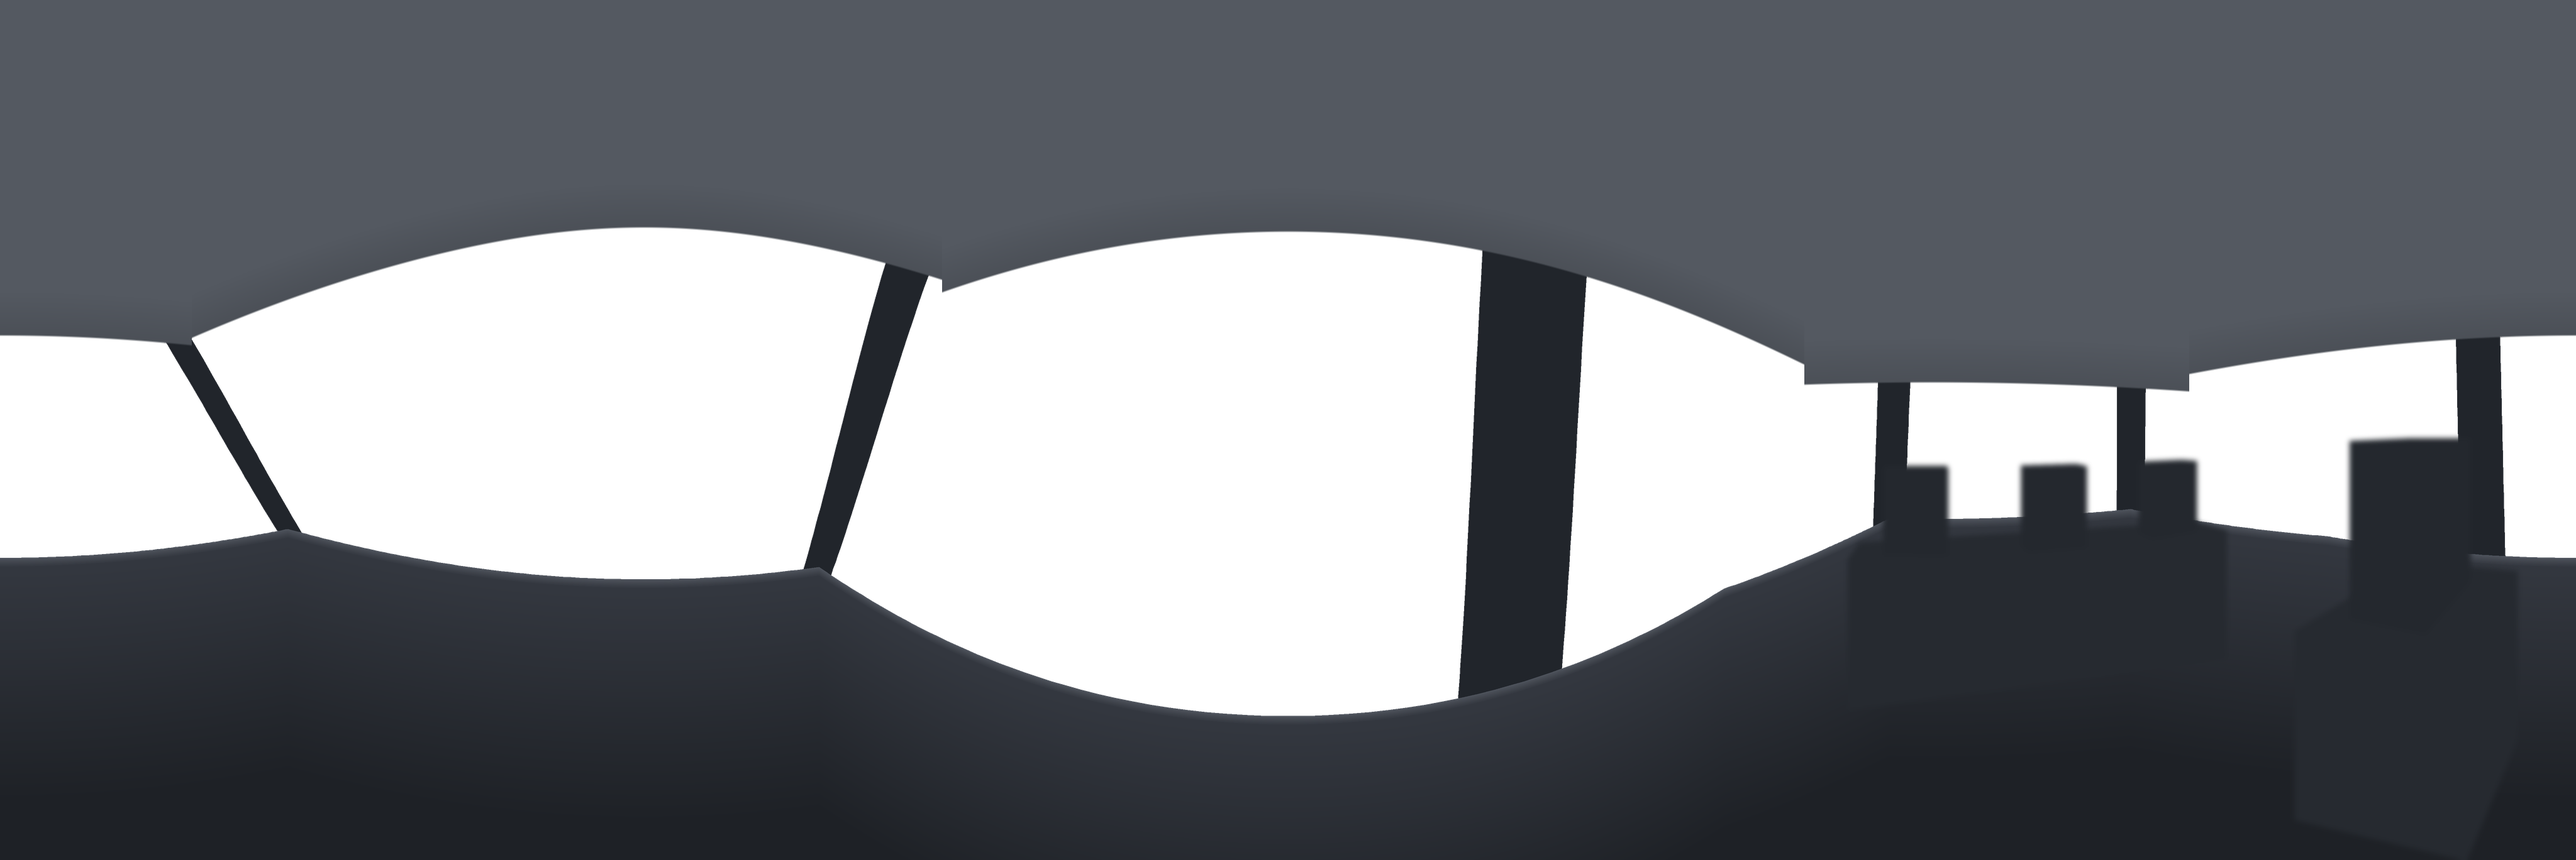
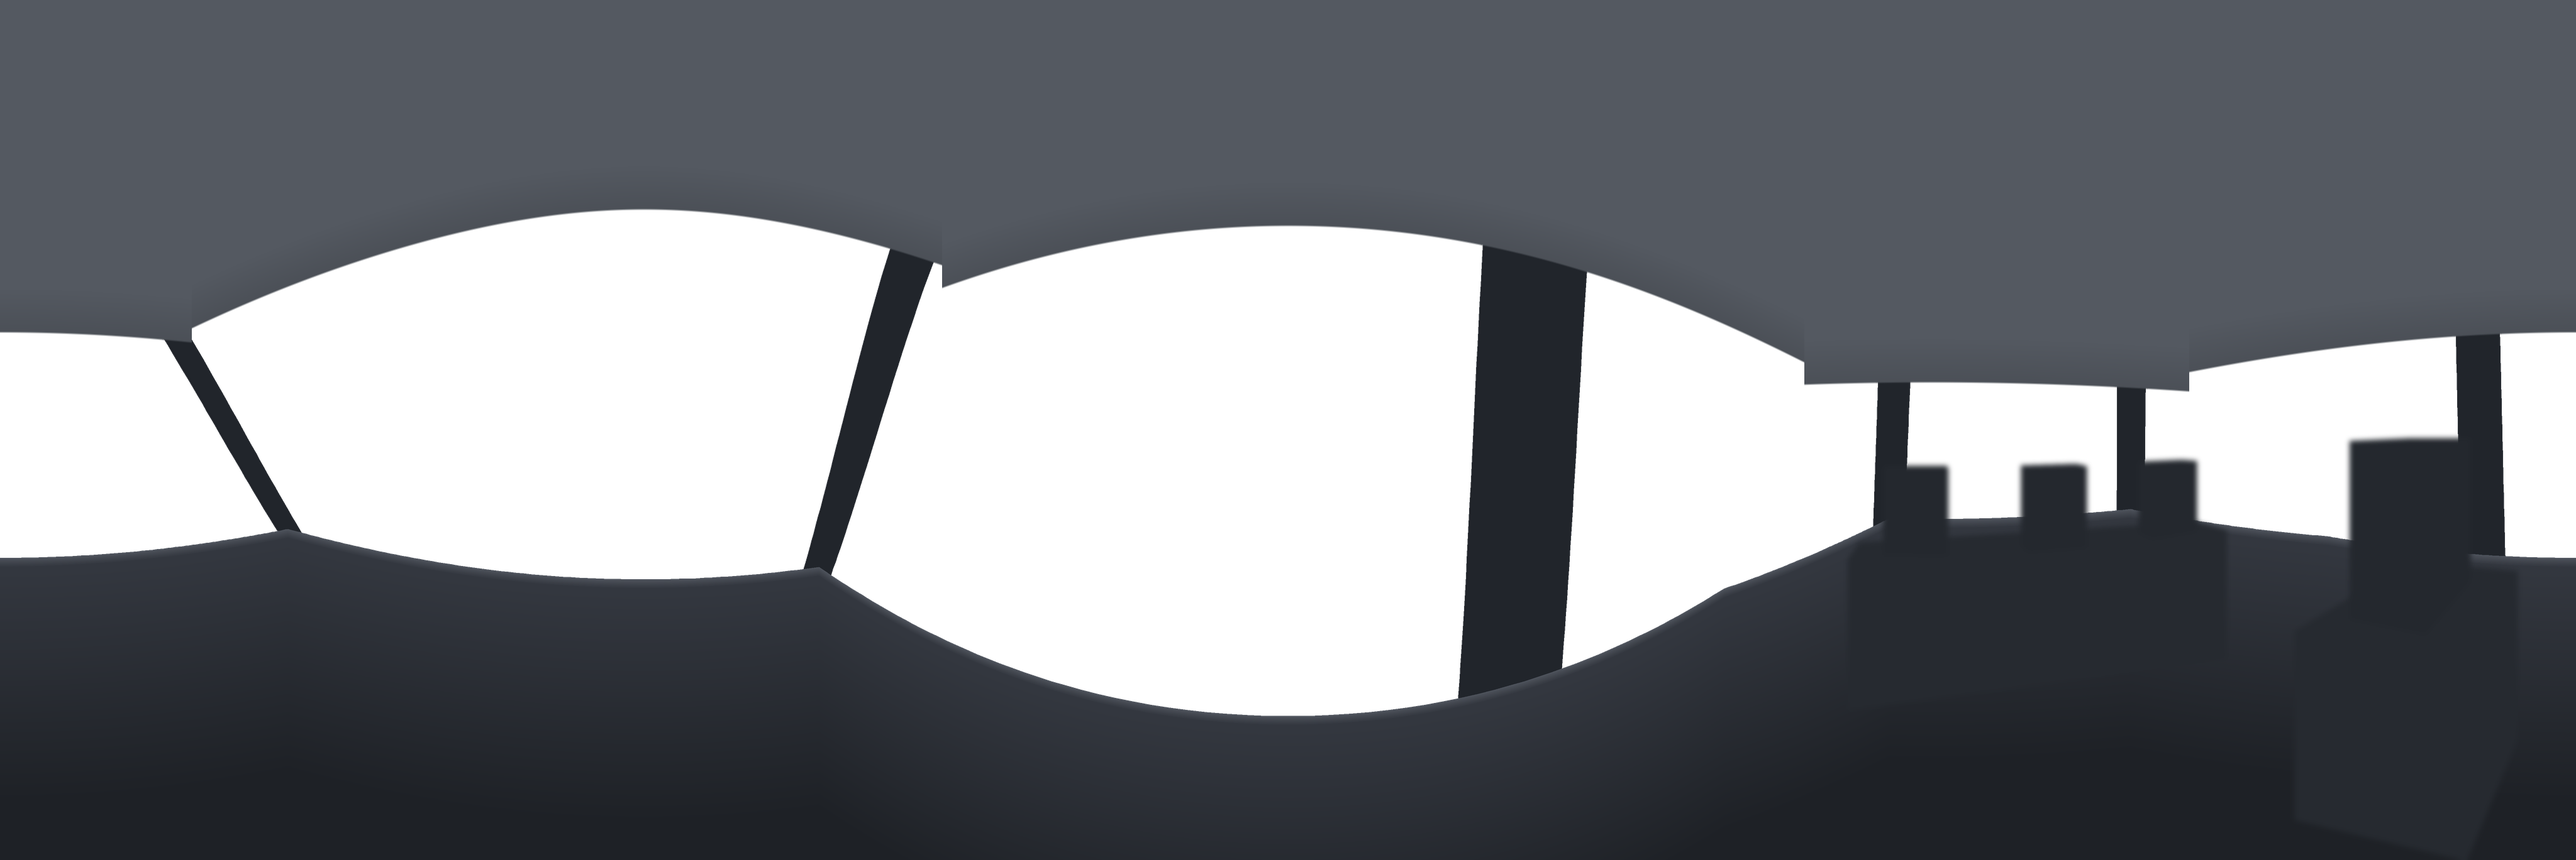
Gap between roof edge and interior mirror (short stem); roof edge ~29° so mirror stays out of the normal view
Claude-Session: https://claude.ai/code/session_016Zy8X1pPCmx7oSK87GxSWN

diff --git a/lib/cockpit.js b/lib/cockpit.js
@@ -11,8 +11,8 @@ const cb=(w,h,d,m,x,y,z,rx,ry,rz)=>{const o=mesh(new T.BoxGeometry(w,h,d),m,x,y,
 // 两点之间的一根杆：两端落在指定点上，保证 A 柱与车顶、仪表台真正相连
 const rod=(a,b,w,h,m)=>{const L=Math.hypot(b[0]-a[0],b[1]-a[1],b[2]-a[2]),o=new T.Mesh(new T.BoxGeometry(w,h,L),m);o.position.set((a[0]+b[0])/2,(a[1]+b[1])/2,(a[2]+b[2])/2);o.lookAt(b[0],b[1],b[2]);cockpit.add(o);return o};
 const imC=document.createElement('canvas');imC.width=256;imC.height=60;const imX=imC.getContext('2d'),imT=new T.CanvasTexture(imC),IM=new T.MeshBasicMaterial({map:imT});
-// 车顶：小轿车司机头顶到顶棚约一拳，挡风玻璃上沿比眼睛高约 27°（全景图 pano2：顶棚边缘按真车的平顶重新画过）
-// 中镜贴在挡风玻璃上、顶棚边缘正下方（约 0.6 米前、0.26 米高，抬头约 20°；挡风玻璃上的小底座贴着玻璃）：平时往前看最多露出下面一小半（模糊、偏暗）；
+// 车顶：小轿车司机头顶到顶棚约一拳，挡风玻璃上沿比眼睛高约 29°（全景图 pano2：顶棚边缘按真车的平顶重新画过）
+// 中镜贴在挡风玻璃上、顶棚边缘正下方（约 0.6 米前、0.26 米高，抬头约 20°；镜子上沿离顶棚边缘约 5 厘米，用一根短支杆连到贴在玻璃上沿的小底座）：平时往前看最多露出下面一小半（模糊、偏暗）；
 // 看中镜时视线往上抬 MPIT、镜头拉近（中镜放大约 1.5 倍）、镜子变清楚（见文件末尾 MIRF）；看中镜这一步停留得长一些（MSLOW）
 const MSLOW=.45;      // 看中镜、看外后视镜：时间走得慢一些（各约 0.8～1 秒），视线停稳在镜子上，看得清
 const MRY=0,MRZ=0;      // 中镜贴在挡风玻璃上（顶棚边缘下面一点），长边和顶棚边缘平行
@@ -34,7 +34,7 @@ function setMir(on){if(setMir.s===on)return;setMir.s=on;const x=imX,w=256,h=60,g
 setMir(false);
 let cluster=null,CLM=null;
 { // 车内壳体：一张环绕驾驶员的全景图（深灰、无细节），贴在驾驶员眼睛处的透明球体内侧。转头时它跟车不动。
- const pt=new T.TextureLoader().load('assets/pano2.png?v=1126k');pt.minFilter=T.LinearFilter;pt.generateMipmaps=false;
+ const pt=new T.TextureLoader().load('assets/pano2.png?v=1126l');pt.minFilter=T.LinearFilter;pt.generateMipmaps=false;
  const sp=new T.Mesh(new T.SphereGeometry(1.3,128,32,0,Math.PI*2,Math.PI/2-1.05,2.1),new T.MeshBasicMaterial({map:pt,transparent:true,side:T.BackSide,depthWrite:false,fog:false}));
  sp.position.set(.38,0,0);sp.renderOrder=1;sp.frustumCulled=false;cockpit.add(sp);
  // 仪表盘：只画一次的静态图（两个圆表盘）
@@ -45,7 +45,7 @@ let cluster=null,CLM=null;
   x.fillStyle='#8be3a0';x.fillRect(118,34,20,10)}));
  const cl=mesh(new T.BoxGeometry(.5,.15,.02),new T.MeshBasicMaterial({map:clT}),.38,-.42,.9);cl.rotation.x=.25;cockpit.add(cl);CLM=cl;
  // 中间后视镜：短支架
- rod([0,.305,.625],[0,.285,.617],.02,.02,DK);{const j=new T.Mesh(new T.SphereGeometry(.016,10,8),DK);j.position.set(0,.285,.617);cockpit.add(j)}   /* 连杆一直插进镜壳背面，加一个球形接头，不留缝 */cb(.06,.035,.01,DK,0,.305,.628);cb(.27,.075,.035,DK,0,.262,.6,0,MRY,MRZ);{const o=cb(.24,.052,.012,IM,0,.262,.58,0,MRY,MRZ);o.position.x-=.02*Math.sin(MRY)}}
+ rod([0,.345,.628],[0,.285,.617],.018,.018,DK);{const j=new T.Mesh(new T.SphereGeometry(.016,10,8),DK);j.position.set(0,.285,.617);cockpit.add(j)}   /* 连杆一直插进镜壳背面，加一个球形接头，不留缝 */cb(.06,.03,.012,DK,0,.348,.63);cb(.27,.075,.035,DK,0,.262,.6,0,MRY,MRZ);{const o=cb(.24,.052,.012,IM,0,.262,.58,0,MRY,MRZ);o.position.x-=.02*Math.sin(MRY)}}
 // 方向盘：只有轮圈、辐条和中心
 const wheelP=new T.Group();wheelP.position.set(.38,-.4,.62);      // 方向盘上移：能看到一半多一点，包括中间的标志
 wheelP.rotation.x=.5;wheelP.scale.set(.88,.88,.88);cockpit.add(wheelP);

diff --git a/index.html b/index.html
@@ -234,7 +234,7 @@ details.route summary{cursor:pointer}
 <script src="lib/sheet.js?v=1121a"></script>
 <script>
 // 版本号：改了哪个项目就改这里，让手机重新下载
-const V='1126k';
+const V='1126l';
 // ---------- 所有单项（以后模拟考试也按这里的 id 串起来） ----------
 const ITEMS={
  'green-right':{zh:'绿灯右转',en:'Right turn on green',dz:'行人和自行车、对面左转车、黄灯、警车，每次随机组合',de:'Pedestrians, cyclists, oncoming left-turners, amber lights and police cars in random combinations'},

diff --git a/exit.html b/exit.html
@@ -106,7 +106,7 @@ details{margin:8px 0;font-size:14px}summary{cursor:pointer;color:#2f6fe0;font-we
 <script src="lib/actors.js?v=1112y"></script>
 <script src="lib/ads.js?v=1110o"></script>
 <script src="lib/billboard.js?v=1110o"></script>
-<script src="lib/cockpit.js?v=1126k"></script>
+<script src="lib/cockpit.js?v=1126l"></script>
 <script src="lib/hq.js?v=1117d"></script>
 <script src="lib/ui.js?v=1117s"></script>
 <script src="lib/houses.js?v=1106i"></script>

diff --git a/green-left.html b/green-left.html
@@ -100,7 +100,7 @@ details{margin:8px 0;font-size:14px}summary{cursor:pointer;color:#2f6fe0;font-we
 <script src="lib/actors.js?v=1112y"></script>
 <script src="lib/ads.js?v=1110o"></script>
 <script src="lib/billboard.js?v=1110o"></script>
-<script src="lib/cockpit.js?v=1126k"></script>
+<script src="lib/cockpit.js?v=1126l"></script>
 <script src="lib/hq.js?v=1117d"></script>
 <script src="lib/rules.js?v=1028c"></script>
 <script src="lib/ui.js?v=1117s"></script>

diff --git a/green-arrow.html b/green-arrow.html
@@ -95,7 +95,7 @@ details{margin:8px 0;font-size:14px}summary{cursor:pointer;color:#2f6fe0;font-we
 <script src="lib/actors.js?v=1112y"></script>
 <script src="lib/ads.js?v=1110o"></script>
 <script src="lib/billboard.js?v=1110o"></script>
-<script src="lib/cockpit.js?v=1126k"></script>
+<script src="lib/cockpit.js?v=1126l"></script>
 <script src="lib/hq.js?v=1117d"></script>
 <script src="lib/rules.js?v=1028c"></script>
 <script src="lib/ui.js?v=1117s"></script>

diff --git a/green-right.html b/green-right.html
@@ -78,7 +78,7 @@ details{margin:8px 0;font-size:14px}summary{cursor:pointer;color:#2f6fe0;font-we
 <script src="lib/actors.js?v=1112y"></script>
 <script src="lib/ads.js?v=1110o"></script>
 <script src="lib/billboard.js?v=1110o"></script>
-<script src="lib/cockpit.js?v=1126k"></script>
+<script src="lib/cockpit.js?v=1126l"></script>
 <script src="lib/hq.js?v=1117d"></script>
 <script src="lib/rules.js?v=1028c"></script>
 <script src="lib/ui.js?v=1117s"></script>

diff --git a/red-right.html b/red-right.html
@@ -79,7 +79,7 @@ details{margin:8px 0;font-size:14px}summary{cursor:pointer;color:#2f6fe0;font-we
 <script src="lib/actors.js?v=1112y"></script>
 <script src="lib/ads.js?v=1110o"></script>
 <script src="lib/billboard.js?v=1110o"></script>
-<script src="lib/cockpit.js?v=1126k"></script>
+<script src="lib/cockpit.js?v=1126l"></script>
 <script src="lib/hq.js?v=1117d"></script>
 <script src="lib/rules.js?v=1028c"></script>
 <script src="lib/ui.js?v=1117s"></script>

diff --git a/headin.html b/headin.html
@@ -106,7 +106,7 @@ details{margin:8px 0;font-size:14px}summary{cursor:pointer;color:#2f6fe0;font-we
 <script src="lib/core.js?v=1120d"></script>
 <script src="lib/en.js?v=1126a"></script>
 <script src="lib/actors.js?v=1112y"></script>
-<script src="lib/cockpit.js?v=1126k"></script>
+<script src="lib/cockpit.js?v=1126l"></script>
 <script src="lib/ui.js?v=1117s"></script>
 <script src="lib/houses.js?v=1106i"></script>
 <script src="lib/hood.js?v=1117a"></script>

diff --git a/straight.html b/straight.html
@@ -83,7 +83,7 @@ details{margin:8px 0;font-size:14px}summary{cursor:pointer;color:#2f6fe0;font-we
 <script src="lib/actors.js?v=1112y"></script>
 <script src="lib/ads.js?v=1110o"></script>
 <script src="lib/billboard.js?v=1110o"></script>
-<script src="lib/cockpit.js?v=1126k"></script>
+<script src="lib/cockpit.js?v=1126l"></script>
 <script src="lib/hq.js?v=1117d"></script>
 <script src="lib/ui.js?v=1117s"></script>
 <script src="straight.js?v=1126j"></script>

diff --git a/hill-park.html b/hill-park.html
@@ -100,7 +100,7 @@ details{margin:8px 0;font-size:14px}summary{cursor:pointer;color:#2f6fe0;font-we
 <script src="lib/core.js?v=1120d"></script>
 <script src="lib/en.js?v=1126a"></script>
 <script src="lib/actors.js?v=1112y"></script>
-<script src="lib/cockpit.js?v=1126k"></script>
+<script src="lib/cockpit.js?v=1126l"></script>
 <script src="lib/hq.js?v=1117d"></script>
 <script src="lib/ui.js?v=1117s"></script>
 <script src="lib/houses.js?v=1106i"></script>

diff --git a/parallel.html b/parallel.html
@@ -102,7 +102,7 @@ details{margin:8px 0;font-size:14px}summary{cursor:pointer;color:#2f6fe0;font-we
 <script src="lib/core.js?v=1120d"></script>
 <script src="lib/en.js?v=1126a"></script>
 <script src="lib/actors.js?v=1112y"></script>
-<script src="lib/cockpit.js?v=1126k"></script>
+<script src="lib/cockpit.js?v=1126l"></script>
 <script src="lib/hq.js?v=1117d"></script>
 <script src="lib/ui.js?v=1117s"></script>
 <script src="lib/houses.js?v=1106i"></script>

diff --git a/stall.html b/stall.html
@@ -104,7 +104,7 @@ details{margin:8px 0;font-size:14px}summary{cursor:pointer;color:#2f6fe0;font-we
 <script src="lib/core.js?v=1120d"></script>
 <script src="lib/en.js?v=1126a"></script>
 <script src="lib/actors.js?v=1112y"></script>
-<script src="lib/cockpit.js?v=1126k"></script>
+<script src="lib/cockpit.js?v=1126l"></script>
 <script src="lib/hq.js?v=1117d"></script>
 <script src="lib/ui.js?v=1117s"></script>
 <script src="lib/houses.js?v=1106i"></script>
